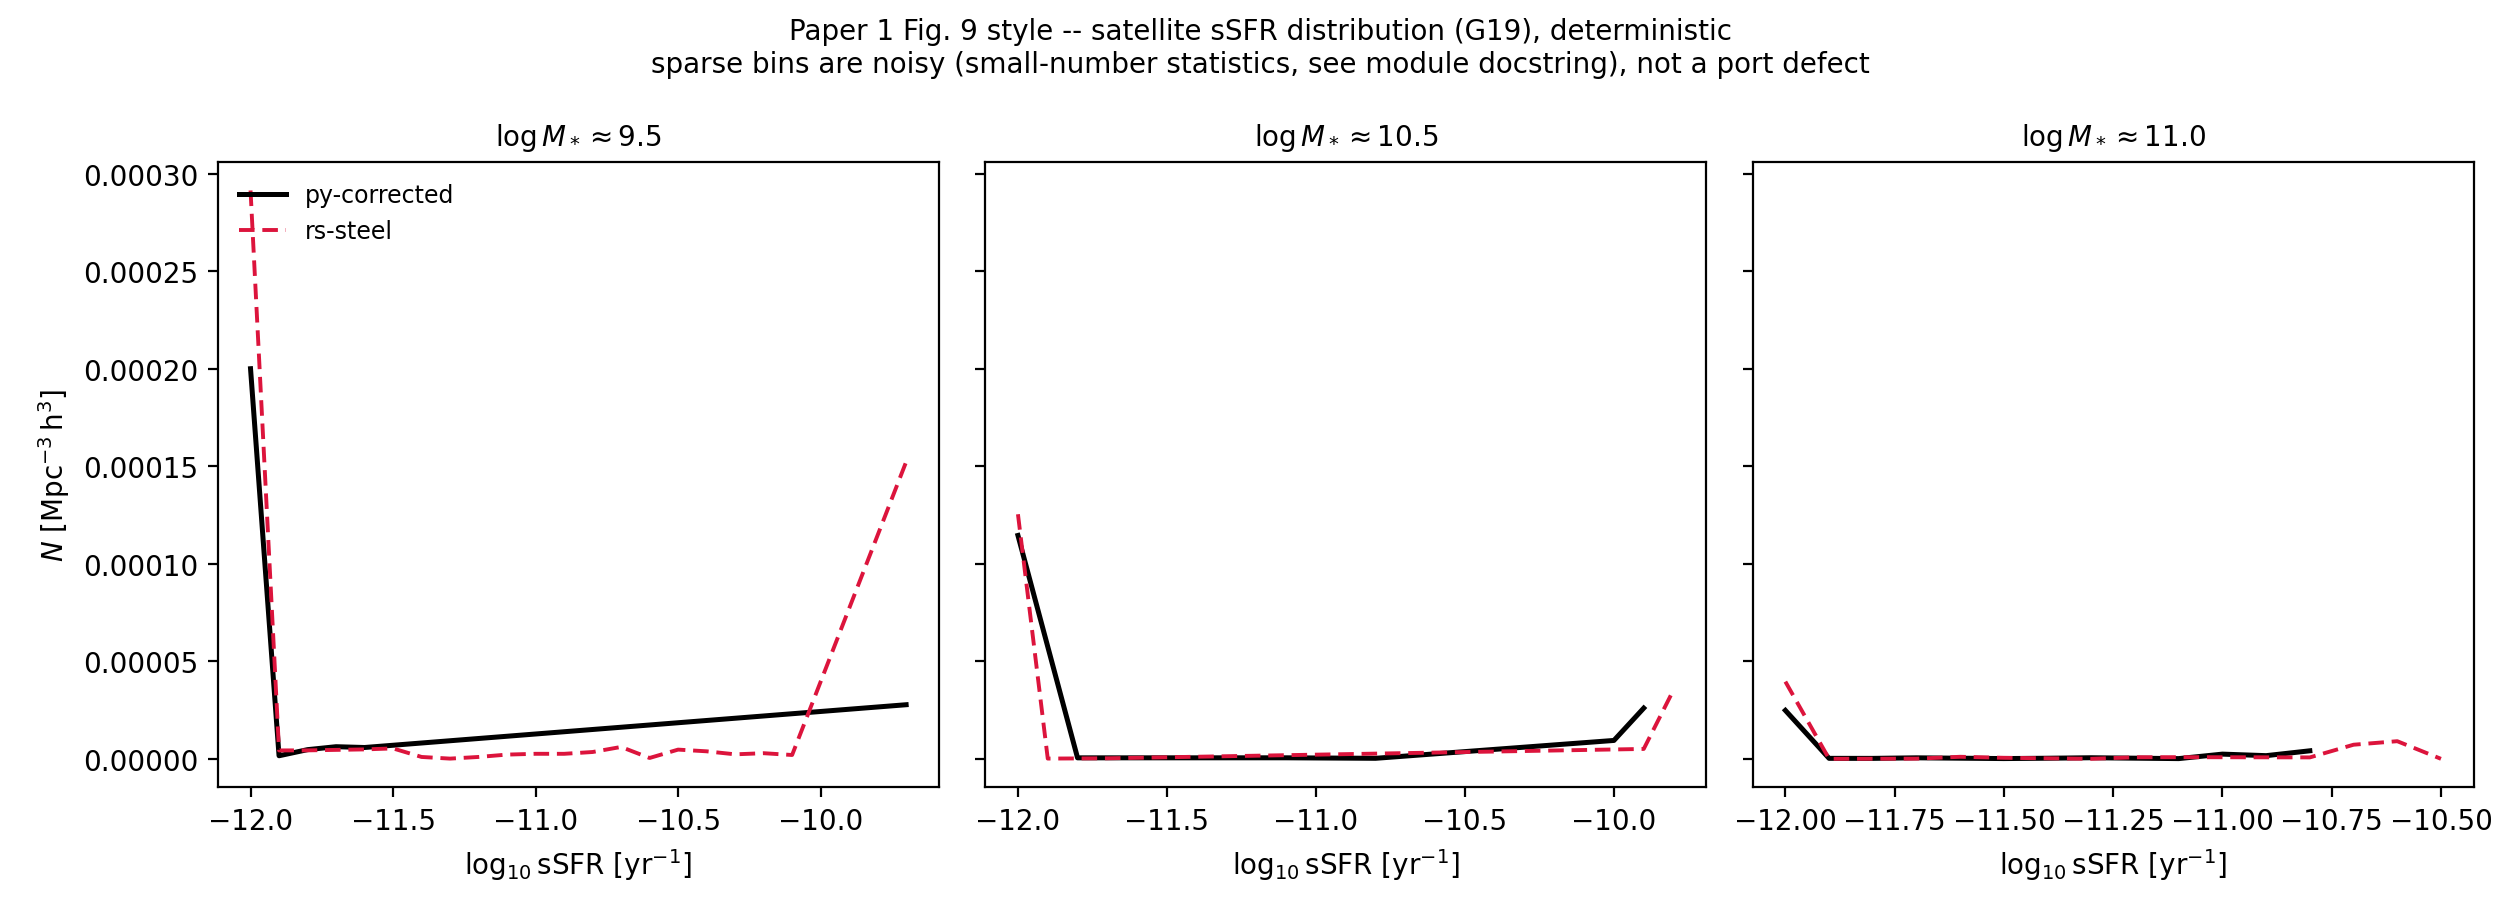
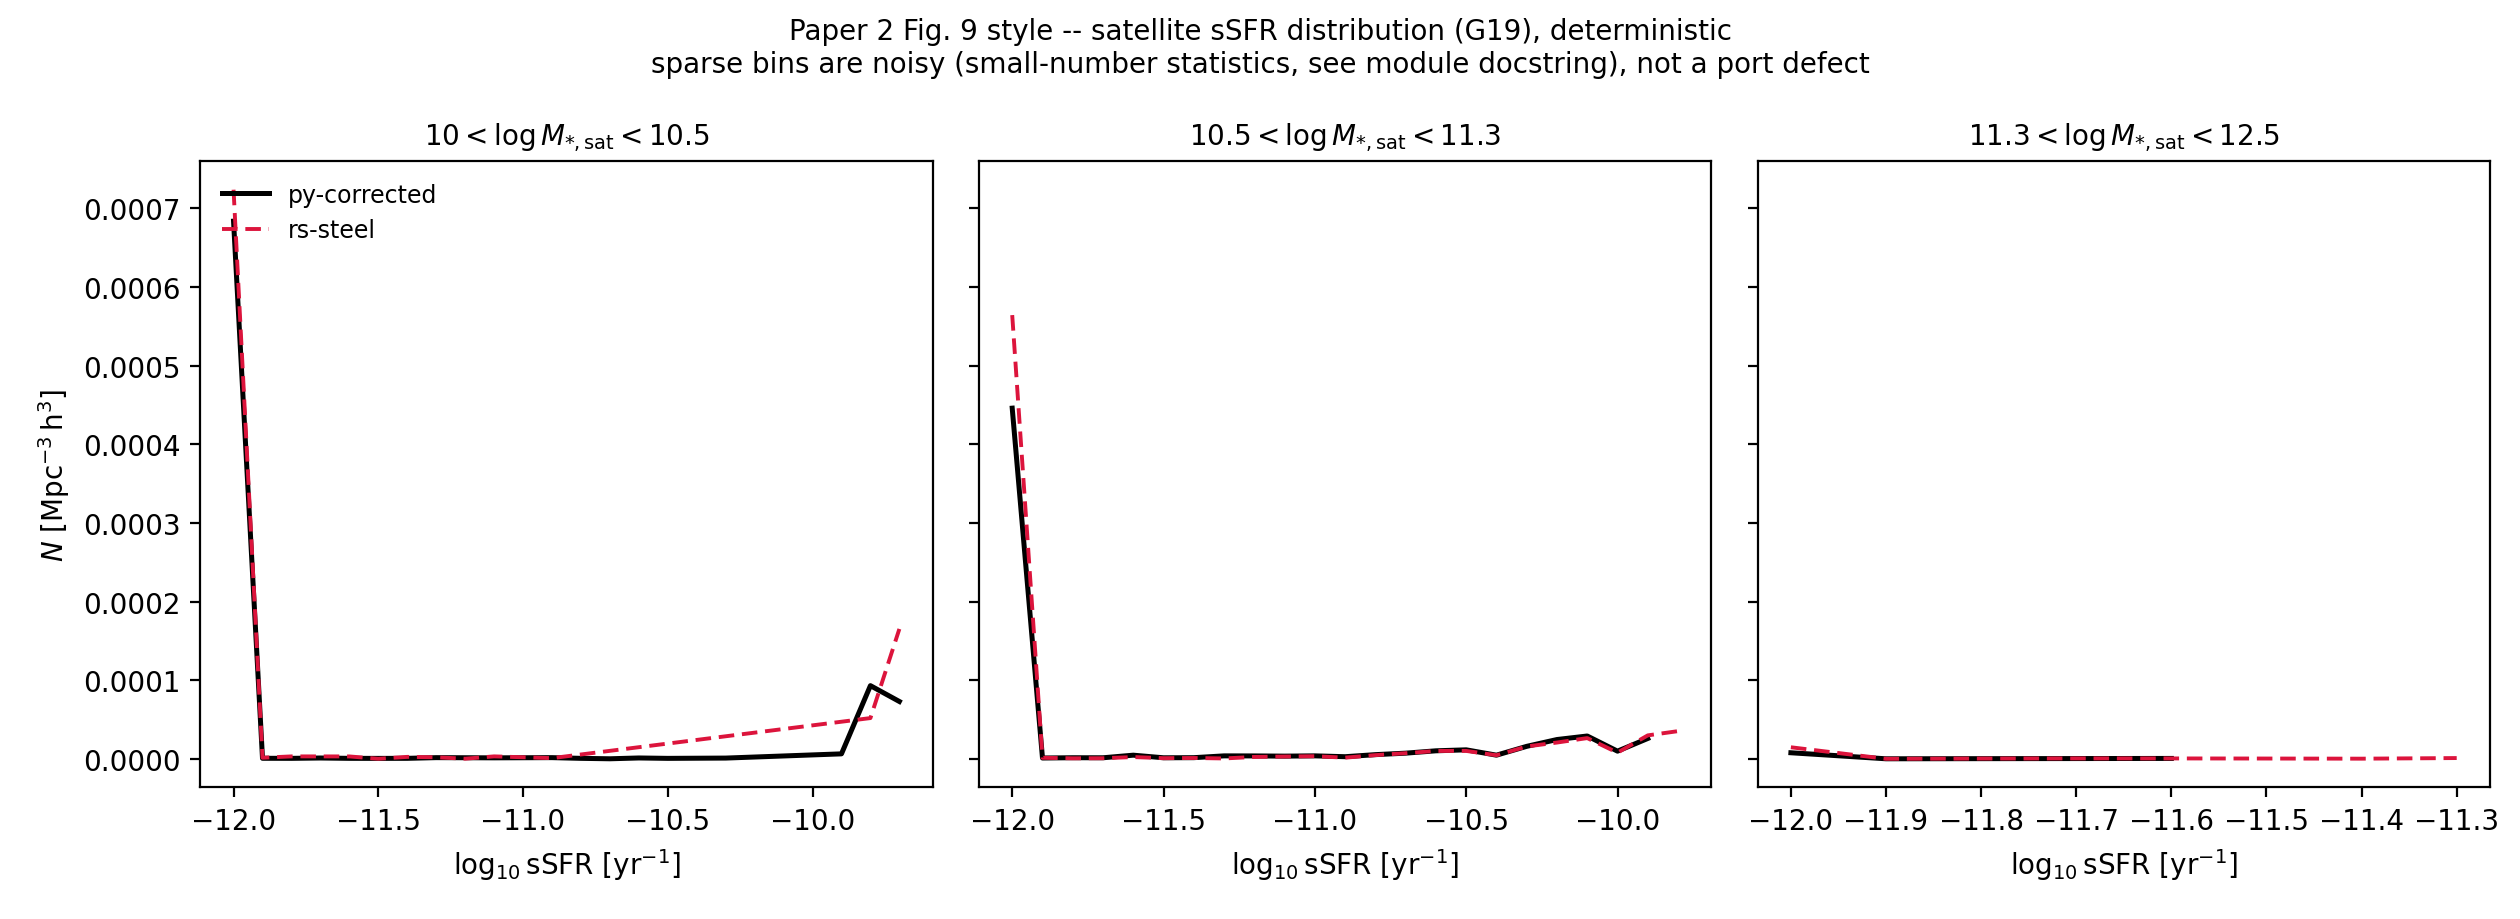
Improve Paper 2 Fig. 9: exact published mass ranges, summed not sampled
ssfr_plot.py previously sampled a single nearest sat-mass bin per
panel; now sums Satellite_sSFR over the satellite-mass axis within
each of the paper's actual 3 ranges (10-10.5, 10.5-11.3, 11.3-12.5),
matching the real figure's binning. Docstring/defaults also corrected
from the stale "Paper 1" label to "Paper 2" (this script predates the
relabel commit). Central-galaxy dynamical-quenching line still not
built -- needs CentralPostprocessing analysis this script doesn't run.

diff --git a/Scripts/Validation/ssfr_plot.py b/Scripts/Validation/ssfr_plot.py
@@ -1,10 +1,13 @@
-"""Reproduce the satellite side of Paper 1 Fig. 9: sSFR distributions
-in a few stellar-mass bins, from the Satellite_sSFR 2D histogram
+"""Reproduce the satellite side of Paper 2 (arXiv 1910.08417, MNRAS
+491) Fig. 9: sSFR distributions in the paper's exact 3 mass ranges
+(10-10.5, 10.5-11.3, 11.3-12.5), from the Satellite_sSFR 2D histogram
 (satellite mass x sSFR) both implementations already produce at the
-reference (z~0.1) epoch. The published figure also shows a
-post-processed central-galaxy sSFR distribution (dashed black line);
-that side needs CentralPostprocessing analysis this script doesn't
-run, so this is satellites only.
+reference (z~0.1) epoch, summed over the satellite-mass axis within
+each range (not a single nearest-bin snapshot). The published figure
+also shows a post-processed central-galaxy sSFR distribution (dashed
+black line) from the dynamical-quenching model; that side needs
+CentralPostprocessing analysis this script doesn't run, so this is
+satellites only.
 
 Deterministic mode collapses each mass bin's satellites onto a handful
 of discrete sSFR values (no scatter to smear them across bins), so
@@ -37,35 +40,46 @@ LEG_STYLE = {
 }
 
 
+MASS_RANGES = [(10.0, 10.5), (10.5, 11.3), (11.3, 12.5)]
+
+
 def main():
     ap = argparse.ArgumentParser()
     ap.add_argument("--py-corrected", required=True)
     ap.add_argument("--rs-steel", required=True)
-    ap.add_argument("--mass-bins", type=float, nargs="+", default=[9.5, 10.5, 11.0])
-    ap.add_argument("--out", default="Figures/PortValidation/Paper1_Fig9_sSFR.png")
+    ap.add_argument("--mass-ranges", type=float, nargs="+", default=None,
+                     help="flat list lo1 hi1 lo2 hi2 ...; defaults to the paper's 10-10.5/10.5-11.3/11.3-12.5")
+    ap.add_argument("--out", default="Figures/PortValidation/Paper2_Fig9_sSFR.png")
     args = ap.parse_args()
 
+    if args.mass_ranges:
+        flat = args.mass_ranges
+        ranges = [(flat[i], flat[i + 1]) for i in range(0, len(flat), 2)]
+    else:
+        ranges = MASS_RANGES
+
     os.makedirs(os.path.dirname(args.out), exist_ok=True)
-    fig, axes = plt.subplots(1, len(args.mass_bins), figsize=(4.2 * len(args.mass_bins), 4.6), sharey=True)
+    fig, axes = plt.subplots(1, len(ranges), figsize=(4.2 * len(ranges), 4.6), sharey=True)
 
     for name, run_dir in [("py-corrected", args.py_corrected), ("rs-steel", args.rs_steel)]:
         sat_mass = np.load(os.path.join(run_dir, "sSFR_Surviving_Sat_SMF_MassRange.npy"))
         ssfr_range = np.load(os.path.join(run_dir, "sSFR_Range.npy"))
         data = np.load(os.path.join(run_dir, "Satellite_sSFR.npy"))  # (sat_mass, sSFR)
 
-        for ax, target in zip(axes, args.mass_bins):
-            i = int(np.searchsorted(sat_mass, target))
-            row = data[i]
+        for ax, (lo, hi) in zip(axes, ranges):
+            i_lo = int(np.searchsorted(sat_mass, lo))
+            i_hi = int(np.searchsorted(sat_mass, hi))
+            row = np.nansum(data[i_lo:i_hi], axis=0)
             n = min(len(ssfr_range), len(row))
             mask = row[:n] > 0
             ax.plot(ssfr_range[:n][mask], row[:n][mask], **LEG_STYLE[name])
-            ax.set_title(rf"$\log M_*\approx{sat_mass[i]:.1f}$", fontsize=10)
+            ax.set_title(rf"${lo:g}<\log M_{{*,\mathrm{{sat}}}}<{hi:g}$", fontsize=10)
             ax.set_xlabel(r"$\log_{10}\mathrm{sSFR}\ [\mathrm{yr}^{-1}]$")
 
     axes[0].set_ylabel(r"$N\ [\mathrm{Mpc}^{-3}\,\mathrm{h}^3]$")
     axes[0].legend(loc="upper left", frameon=False, fontsize=8.5)
     fig.suptitle(
-        "Paper 1 Fig. 9 style -- satellite sSFR distribution (G19), deterministic\n"
+        "Paper 2 Fig. 9 style -- satellite sSFR distribution (G19), deterministic\n"
         "sparse bins are noisy (small-number statistics, see module docstring), not a port defect",
         fontsize=10,
     )

diff --git a/docs/RESULTS_REPRODUCTION.md b/docs/RESULTS_REPRODUCTION.md
@@ -132,7 +132,7 @@ Until each of these is rebuilt, the affected rows below are marked
 | 6 | Mass tracks (PyMorph), 3-row: total mass, fractional contribution, instantaneous rate, for 3 target masses | run | **done** (`Paper2_Fig6_MassTrackDecomposition.png`: all 3 rows (total/accretion/SFH, fractional contribution since z=3, instantaneous rate ratio), all 3 target masses (11.0/11.5/12.0) matching the real figure; "Accretion" = Total-SFH in linear mass, masked near the track's z=3 start where they're equal by construction rather than floored (which drew a misleading cliff to log=0); the M*=10^11 track's accretion line is visibly noisier for rs-steel around z~1-2, consistent with it being a small difference of two close values there, not necessarily a port defect; py-as-is absent, G3) |
 | 7 | SFR-M* relation: double-power-law fits at z=0.1,1,2,3,5 + extracted track data points + 3 population tracks overlaid | run | **simplified main-sequence-only version** (`Paper2_Fig7_SFR_Mstar.png`: SFR recomputed from 5 central tracks at z=0/1/2, no fit-curve/data-point distinction, no population-track overlay; not the real figure's structure) |
 | 8 | Mass tracks (cmodel), same 3-row structure as Fig. 6 | run | **done** (`Paper2_Fig8_MassTrackDecomposition.png`: `mass_tracks.py` gained a `--preset g19_cmod` option, `dump_mass_tracks.rs` a `cmod` arg; the M*=10^11 track shows SFH exceeding Total (fractional contribution >1, accretion going negative, large swings in the rate-ratio row) -- this isn't a bug, it reproduces the paper's own stated finding for this figure: cmodel's flatter high-mass SMHM slope makes the implied stellar-mass growth history *internally non-physical*, with accretion sometimes required to be negative to balance the budget. Tight py/rust agreement throughout, including in the pathological region.) |
-| 9 | sSFR of satellites/centrals vs SDSS, 3 mass bins (10-10.5, 10.5-11.3, 11.3-12.5) | run + data | **satellite side only, mass bins approximate** (`Paper2_Fig9_sSFR.png`: 3 mass bins but not the paper's exact ranges; central-galaxy dynamical-quenching line and SDSS overlay not built; sparse-bin noise is small-number statistics, not a port defect) |
+| 9 | sSFR of satellites/centrals vs SDSS, 3 mass bins (10-10.5, 10.5-11.3, 11.3-12.5) | run + data | **satellite side done, central side still missing** (`Paper2_Fig9_sSFR.png`: exact published mass ranges, summed over the satellite-mass axis within each range rather than a single nearest-bin snapshot; tight py/rust agreement in the two lower-mass panels, the top mass range is too sparse on this grid to say much; central-galaxy dynamical-quenching line and SDSS overlay not built; sparse-bin noise is small-number statistics, not a port defect) |
 | 10 | SFR-M* relation at z=0.5/1/2 vs Leja+2019 | run + data | **done** (`Paper2_Fig10_SFR_Mstar_z.png`: reuses the same 5 central tracks as Fig. 7, evaluated at z=0.5/1/2 instead of 0/1/2; Leja+2019 overlay omitted) |
 | 11 | Elliptical fraction vs stellar mass, 3 redshifts, vs SDSS T-Type | run + data | **done, method is a documented interpretation** (`Paper2_Fig11_EllipticalFraction.png`: major-merger fraction (ratio>0.25) from `Mergers_Accretion_History` integrated per central mass track, converted expected-count-to-fraction via `f=1-exp(-N_major)` since the paper doesn't give its exact formula; qualitatively correct shape and z-ordering, tight py/rust agreement, but the exact turnover mass isn't verified against the published curve. Not the `P_Elliptical` array -- that's still confirmed dead code, just not what this figure needs.) |
 
